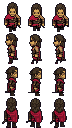
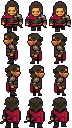
Quest: Azzy's walk sheet from the new Gemini sheet, full height and broader
Converted at the source's 7 px art pixel after a 1.2x horizontal stretch, so he fills the 32 px cell
and is as broad as Gianna instead of reading small and thin.

Claude-Session: https://claude.ai/code/session_01YAnSxFxcnPAhQ8NFJcHZDX

diff --git a/scripts/quest-sprite.py b/scripts/quest-sprite.py
@@ -8,8 +8,9 @@ What the sheets in quest/art/characters were made with:
   gianna: --grid 4x4 --rows down,_,_,up --sides 1,2 --cell 24x32 --colors 32
   anissa: --grid 5x4 --rows down,_,_,up --sides 1 --cell 24x32 --colors 32 --fill 0.84
   yari:   --grid 3x4 --rows down,_,_,up --sides 1,2 --cell 24x32 --colors 32
-  azzy:   --grid 3x4 --rows down,_,_,up --sides 1,2 --cell 24x32 --colors 32 --pixel 7.5, run on the
-          source after warming it (figure pixels r x1.18, g x1.06, then contrast 1.12; Gemini drew him olive)
+  azzy:   --grid 3x4 --rows down,_,_,up --sides 1,2 --cell 24x32 --colors 32 --pixel 7, run on the
+          source after warming it (figure pixels r x1.12, g x1.04, contrast 1.12; Gemini drew him olive)
+          and stretching it 1.2x wide (nearest), so he is as broad as the others
 
 Options:
   --grid COLSxROWS   the source sheet's grid of frames (cells are cut evenly).
